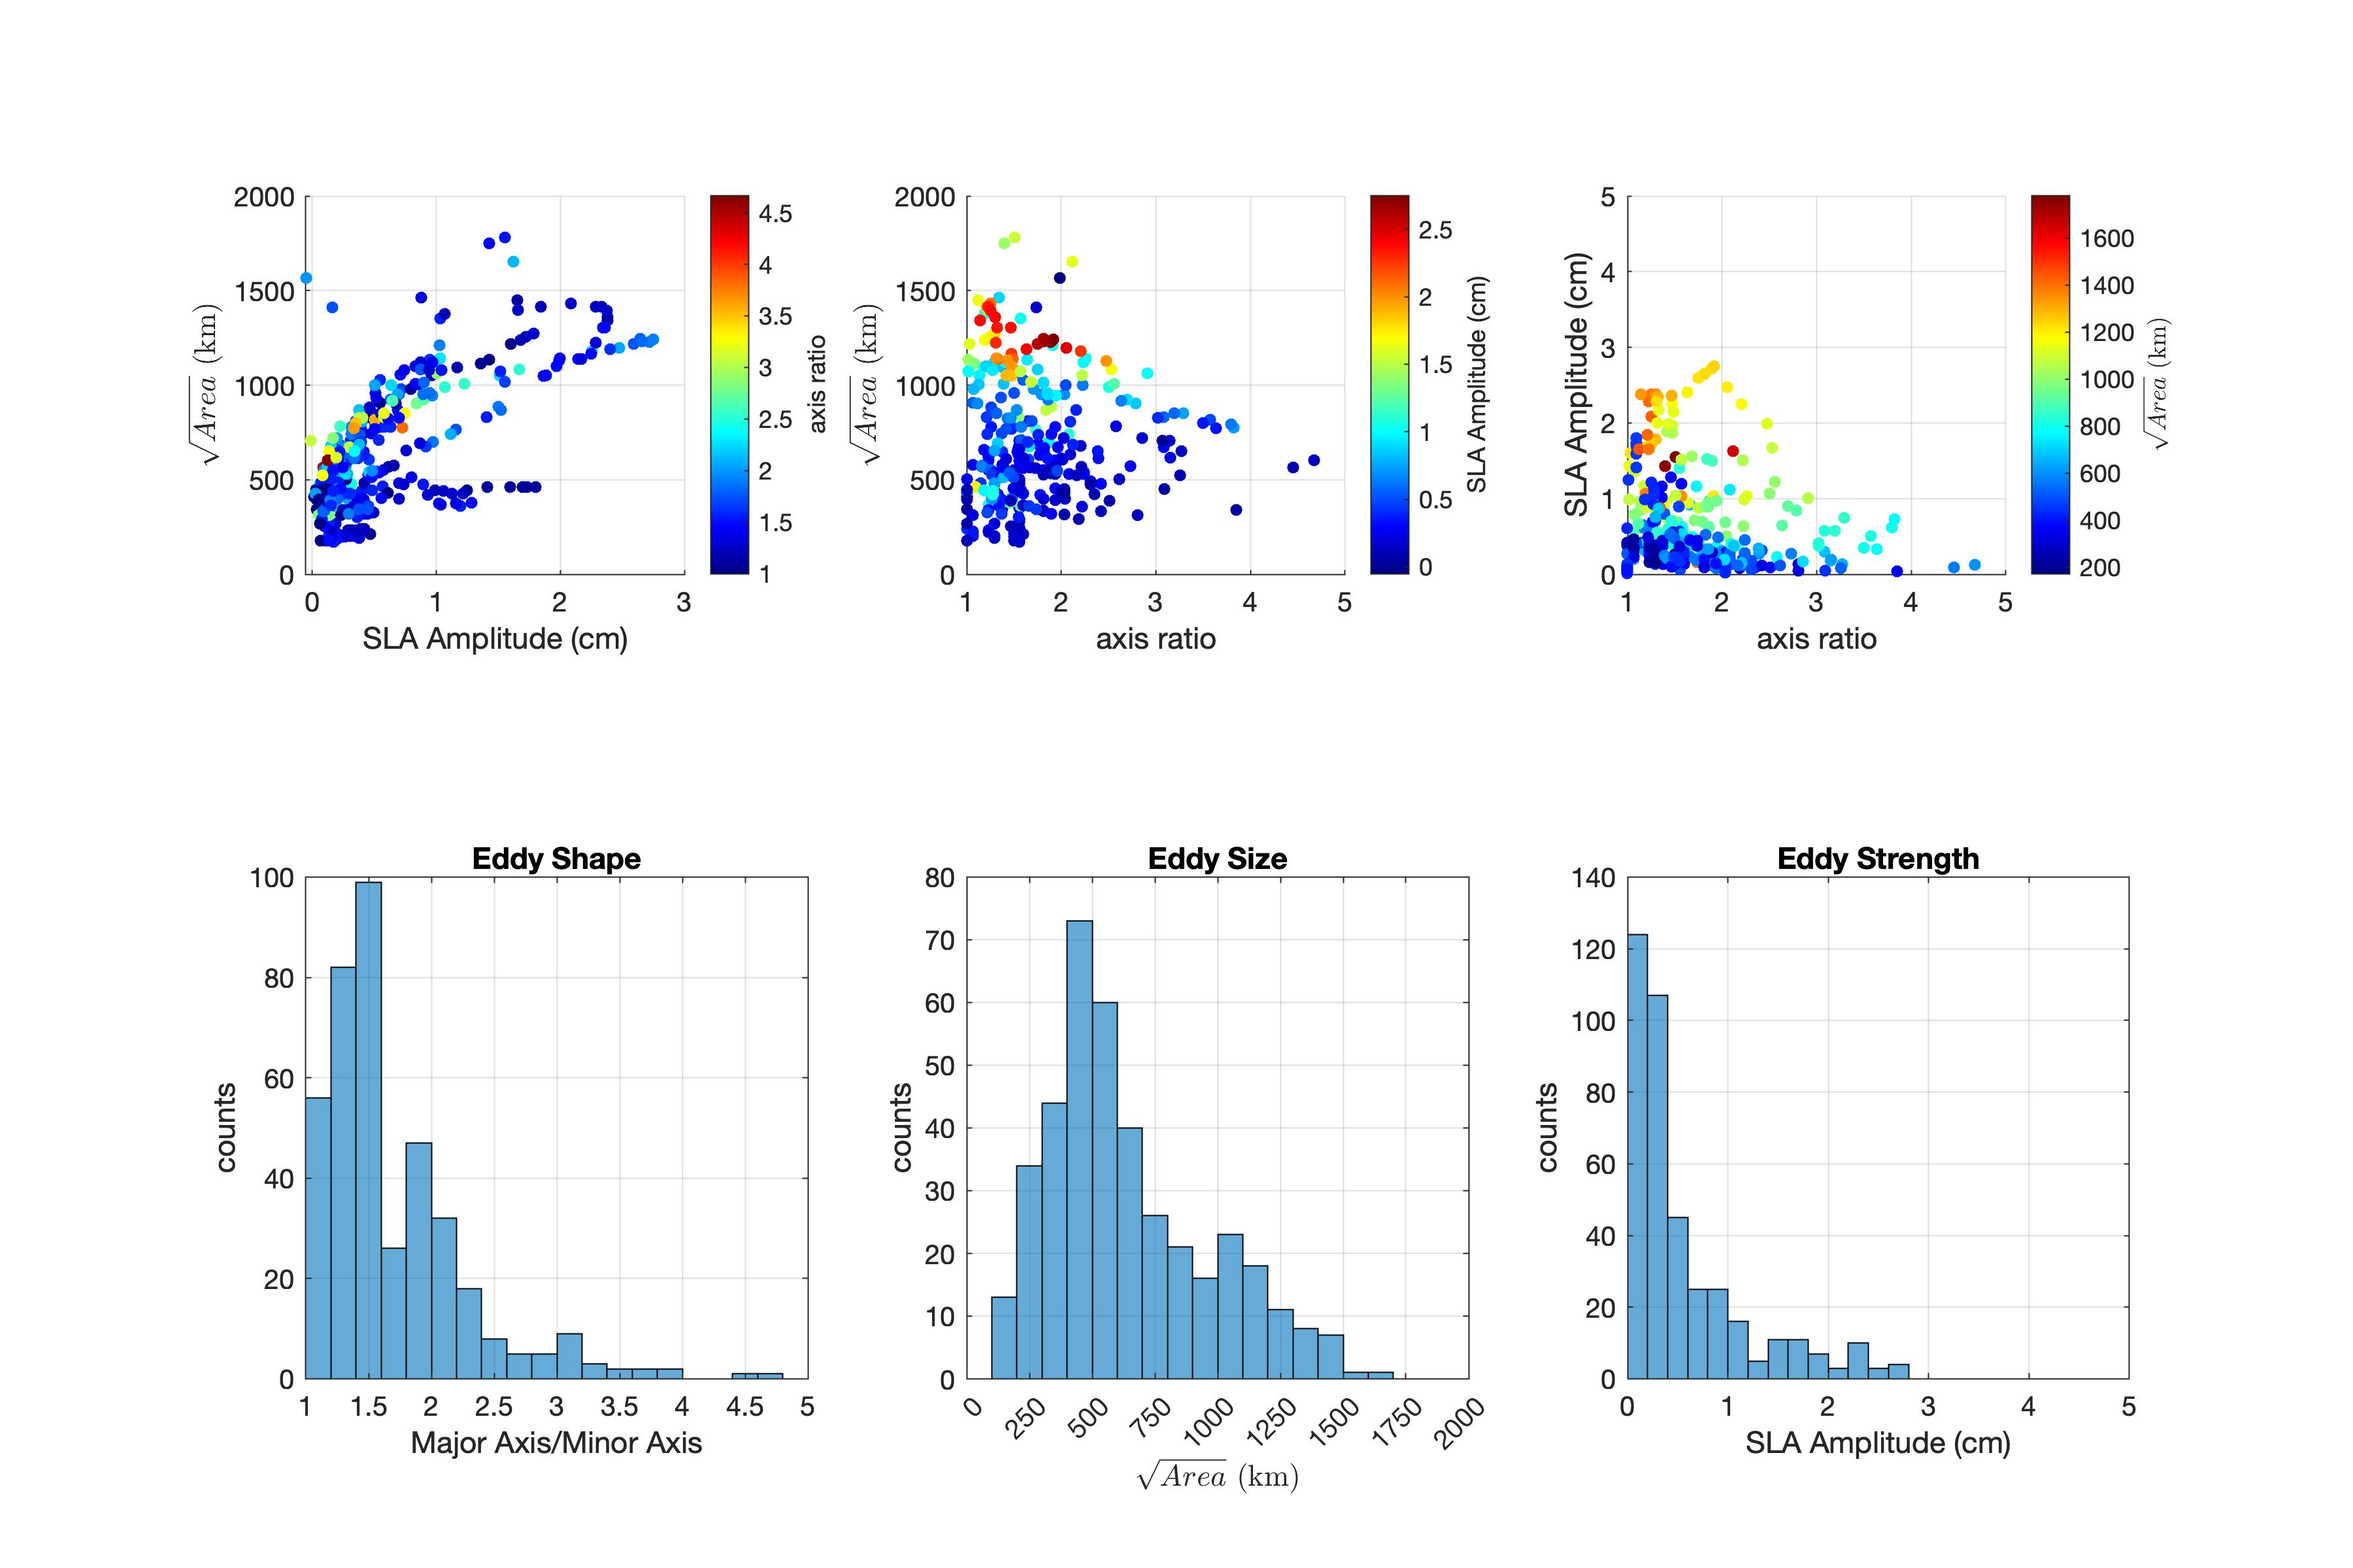
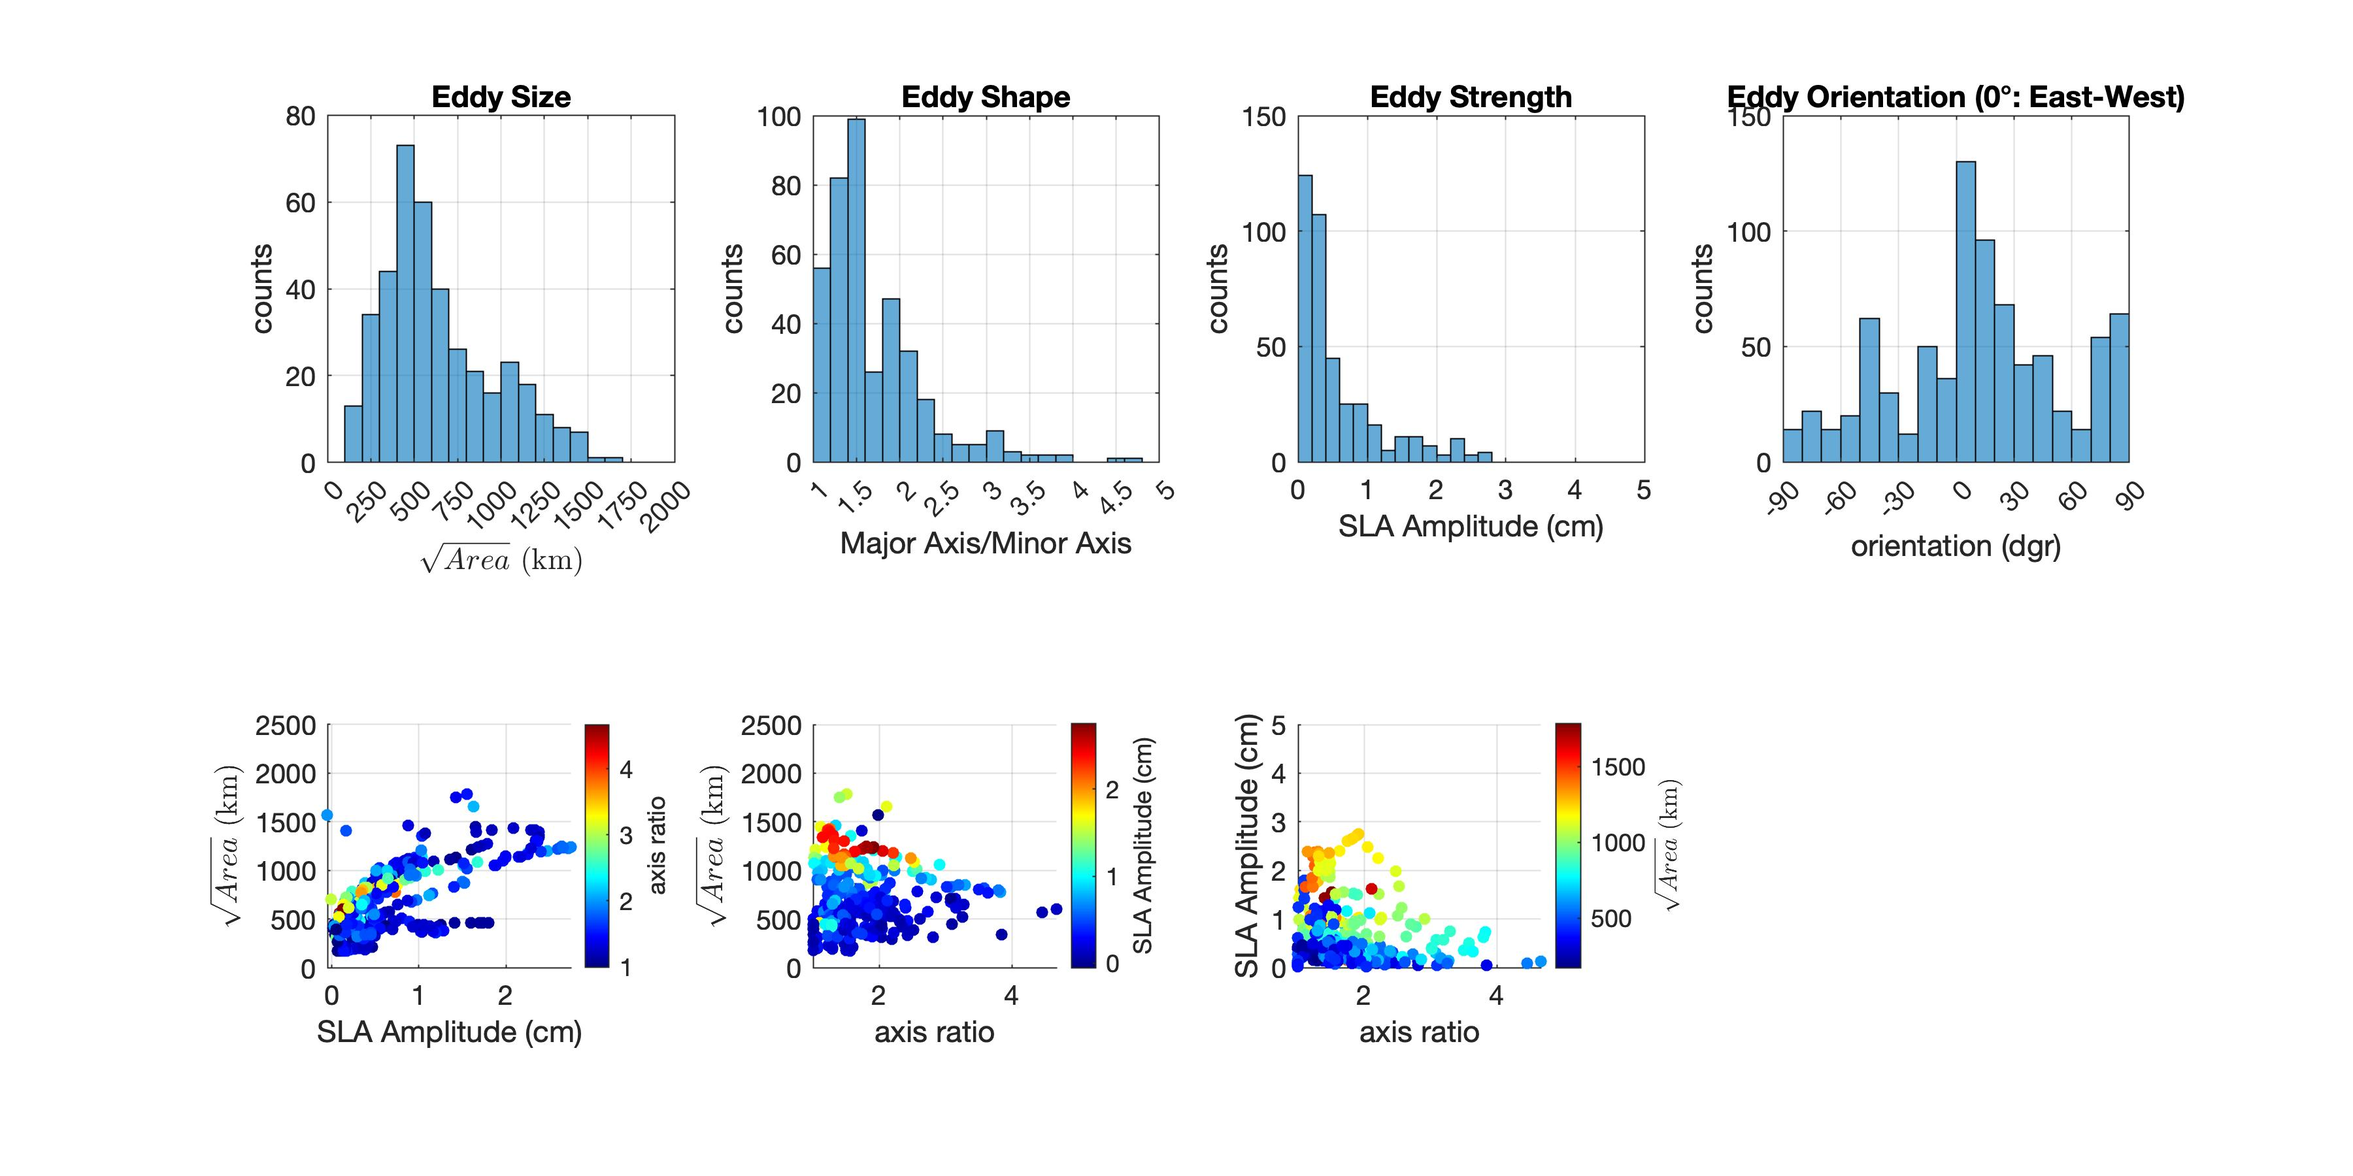
updated figures

diff --git a/my_matlab/learning_to_use_the_package.m b/my_matlab/learning_to_use_the_package.m
@@ -1,7 +1,7 @@
 % testing the eddy tracking code:
 
 % data: delayed time. 0.25°, daily 
-addpath(genpath('/Users/cirrus/Documents/GitHub/OceanEddies/eddyscan'));
+addpath(genpath('/Users/cirrus/Documents/GitHub/OceanEddies'));
 SSH_datadir1 ='/Volumes/GoogleDrive/My Drive/Research/ShallowCumulus/EUREC4A Cloud Winter School/Project_JupyterNoteBook/SLA_data';
 SSH_datadir2 = '/Users/cirrus/Documents/MATLAB/shallow_convection/Obsv/SLA_data/';
 
@@ -53,15 +53,15 @@ scan_multi(sla, double(ssh.latitude), double(ssh.longitude), ssh.time, 'anticyc'
 
 % visualize the results:
 % only show eddies in the selected area:
-atomic_box = [-58 -50, 10, 18];
+atomic_box = [-60 -50, 10, 18];
 cenNA_box = [-50, -40, 10, 18];
 eastNA_box = [-40, -30, 10, 18];
 
 region_names = {'atomic','cenNA','eastNA'};
 nreg = length(region_names);
-for k = 2:nreg
+for k = 1:nreg
     region_name = region_names{k};
-    eval(['atomic_box =' region_name '_box;']);
+    eval(['reg_box =' region_name '_box;']);
     % loop through all the data in the destination directory:
     files = dir([Eddy_destdir filesep 'anticyc*.mat']);
     filenames = {files.name};
@@ -69,8 +69,8 @@ for k = 2:nreg
         matFN = filenames{i};
         load([Eddy_destdir filesep matFN]);
         
-        lon_mask = [eddies.Lon]>=atomic_box(1) & [eddies.Lon]<=atomic_box(2);
-        lat_mask = [eddies.Lat]>=atomic_box(3) & [eddies.Lat]<=atomic_box(4);
+        lon_mask = [eddies.Lon]>=reg_box(1) & [eddies.Lon]<=reg_box(2);
+        lat_mask = [eddies.Lat]>=reg_box(3) & [eddies.Lat]<=reg_box(4);
         
         region_mask = logical(lon_mask.*lat_mask);
         
@@ -106,8 +106,9 @@ for k = 2:nreg
     end
     axis_ratio = MajorAxisLen./MinorAxisLen;
     
+    ncol=4;
     figure
-    subplot(2,3,1)
+    subplot(2,ncol,1+ncol)
     %plot([eddies_atomic.Stats.MajorAxisLength]./[eddies_atomic.Stats.MinorAxisLength],'*b');
     % eddies_stat = [eddies.Stats];
     % scatter([eddies_stat.MajorAxisLength],[eddies_stat.MinorAxisLength],[eddies.SurfaceArea]./1E4,...
@@ -125,10 +126,11 @@ for k = 2:nreg
     axis('square')
     xlabel('SLA Amplitude (cm)')
     ylabel('$\sqrt{Area}$ (km)','interpreter','latex')
+    ylim([0 2500]);
     hb=colorbar;
     set(get(hb,'xlabel'),'String', 'axis ratio');
     
-    subplot(2,3,2)
+    subplot(2,ncol,2+ncol)
     scatter(axis_ratio, sqrt(SurfArea), 20, SSH_Amplitude,'filled');
     colormap(jet);
     % xlim([0 20]);
@@ -143,8 +145,9 @@ for k = 2:nreg
     ylabel('$\sqrt{Area}$ (km)','interpreter','latex')
     hb=colorbar;
     set(get(hb,'xlabel'),'String', 'SLA Amplitude (cm)');
+    ylim([0 2500]);
     
-    subplot(2,3,3)
+    subplot(2,ncol,3+ncol)
     scatter(axis_ratio, SSH_Amplitude,  20, sqrt(SurfArea),'filled');
     colormap(jet);
     % xlim([0 20]);
@@ -167,7 +170,7 @@ for k = 2:nreg
     % size or magnitude of the eddies.
     
     % compute ratio and check the distribution:
-    subplot(2,3,4)
+    subplot(2,ncol,2)
     histogram(axis_ratio,[1:0.2:5]);
     axis('square')
     xlim([1 5]);
@@ -177,7 +180,7 @@ for k = 2:nreg
     set(gca,'xtick',[1:0.5:5]);
     grid on
     
-    subplot(2,3,5)
+    subplot(2,ncol,1)
     histogram(sqrt(SurfArea),[0:100:max(sqrt(SurfArea))]);
     axis('square')
     %xlim([0 5]);
@@ -187,7 +190,7 @@ for k = 2:nreg
     set(gca,'xtick',[0:250:2000]);
     grid on
     
-    subplot(2,3,6)
+    subplot(2,ncol,3)
     histogram(SSH_Amplitude,[0:0.2:5]);   % units is likely centimeter.
     axis('square')
     xlim([0 5]);
@@ -197,15 +200,26 @@ for k = 2:nreg
     set(gca,'xtick',[0:1:5]);
     grid on
     
+    subplot(2,ncol,4)
+    histogram(Orientation,[-90:10:90]);   % units is likely centimeter.
+    axis('square')
+    xlim([-90 90]);
+    xlabel('orientation (dgr)')
+    ylabel('counts')
+    title('Eddy Orientation (0°: East-West)');
+    set(gca,'xtick',[-90:30:90]);
+    grid on
+    
     figsvdir = './my_matlab/Figs';
     if ~exist(figsvdir, 'dir')
         mkdir(figsvdir)
     end
-    locstr = [num2str((atomic_box(1))) '_' num2str((atomic_box(2))) ...
-        '_' num2str((atomic_box(3))) '_' num2str((atomic_box(4)))];
+    locstr = [num2str((reg_box(1))) '_' num2str((reg_box(2))) ...
+        '_' num2str((reg_box(3))) '_' num2str((reg_box(4)))];
     figname = [upper(region_name) '_region_eddy_statics_' locstr '.jpg'];
     
-    xc_savefig(gcf, figsvdir, figname, [0 0 12 8]);
+    %pause
+    xc_savefig(gcf, figsvdir, figname, [0 0 12 6]);
     
 end
 
